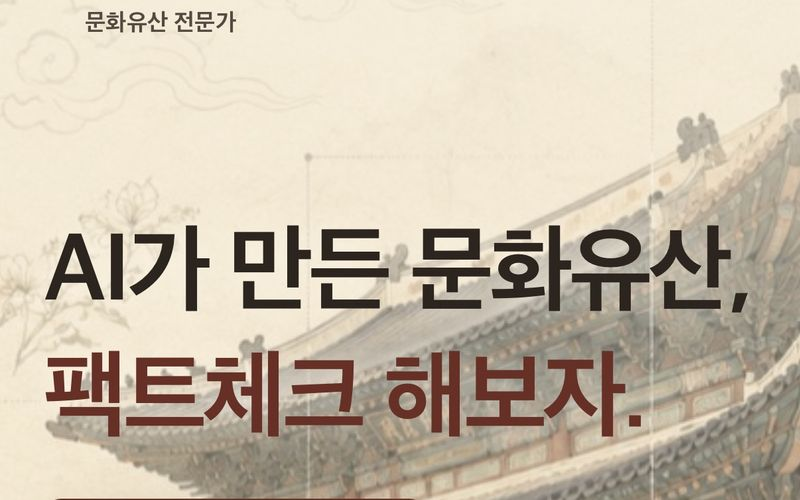
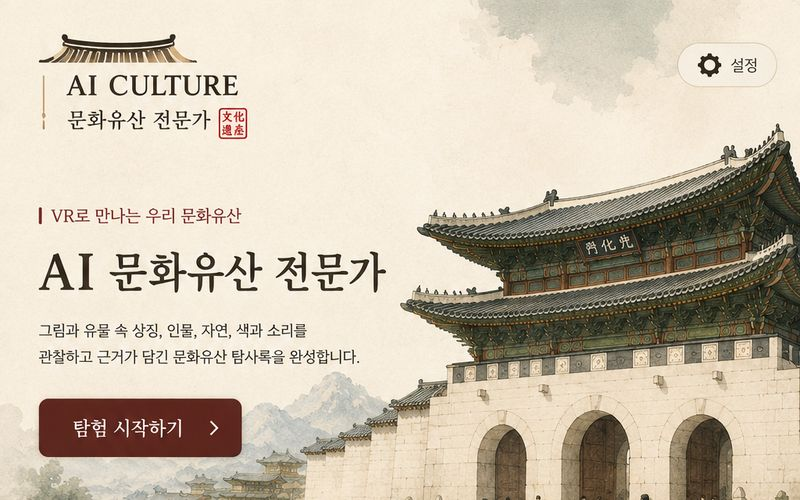
쇼케이스 띠에 앱 5개 추가, AI 문화유산은 전체 화면판으로 교체
- 추가: 역사 인물 추리 · 우리 빵집 초록 인증 · AI 과학수사 ·
  로고송 스튜디오 · AI DREAM (총 10개)
- AI 문화유산 전문가는 모바일 히어로 조각 대신 탐사 카드·주요 기능까지
  보이는 전체 화면 캡처로 교체
- 장수가 두 배가 되었으므로 한 바퀴 도는 시간을 42s → 78s 로 (속도 유지)

10장 380KB. 세로 캡처는 헤드라인이 살아 있는 구간으로 16:10 창을 잡아
잘랐고, 전부 800x500 으로 통일했다.

Claude-Session: https://claude.ai/code/session_01PQg54r9r2mxDZHdEmhupaa

diff --git a/public/index.html b/public/index.html
@@ -296,7 +296,7 @@
     margin-right:calc(-1 * ((100vw - min(100vw, 1280px)) / 2 + 32px));
     -webkit-mask-image:linear-gradient(90deg,transparent,#000 5%,#000 100%);
     mask-image:linear-gradient(90deg,transparent,#000 5%,#000 100%)}
-  .showcase-track{display:flex;gap:18px;width:max-content;animation:showcase-roll 42s linear infinite}
+  .showcase-track{display:flex;gap:18px;width:max-content;animation:showcase-roll 78s linear infinite}
   .showcase:hover .showcase-track{animation-play-state:paused}
   .scard{margin:0;flex:0 0 auto;width:clamp(240px,26vw,330px)}
   .scard img{display:block;width:100%;height:auto;border-radius:14px;border:1px solid var(--line);
@@ -346,12 +346,22 @@
         <figure class="scard"><img src="/brand/showcase/meru-workshop.jpg" alt="머루 마음공방 화면" loading="lazy" width="800" height="500"><figcaption>머루 마음공방</figcaption></figure>
         <figure class="scard"><img src="/brand/showcase/ai-ethics.jpg" alt="AI 윤리탐정단 화면" loading="lazy" width="800" height="500"><figcaption>AI 윤리탐정단</figcaption></figure>
         <figure class="scard"><img src="/brand/showcase/webapp-lab.jpg" alt="AI WEB APP LAB 화면" loading="lazy" width="800" height="500"><figcaption>AI WEB APP LAB</figcaption></figure>
-        <figure class="scard"><img src="/brand/showcase/ai-culture.jpg" alt="AI CULTURE 화면" loading="lazy" width="800" height="500"><figcaption>AI CULTURE</figcaption></figure>
+        <figure class="scard"><img src="/brand/showcase/ai-culture.jpg" alt="AI 문화유산 전문가 화면" loading="lazy" width="800" height="500"><figcaption>AI 문화유산 전문가</figcaption></figure>
+        <figure class="scard"><img src="/brand/showcase/history-detective.jpg" alt="역사 인물 추리 화면" loading="lazy" width="800" height="500"><figcaption>역사 인물 추리</figcaption></figure>
+        <figure class="scard"><img src="/brand/showcase/green-bakery.jpg" alt="우리 빵집 초록 인증 화면" loading="lazy" width="800" height="500"><figcaption>우리 빵집 초록 인증</figcaption></figure>
+        <figure class="scard"><img src="/brand/showcase/ai-forensics.jpg" alt="AI 과학수사 화면" loading="lazy" width="800" height="500"><figcaption>AI 과학수사</figcaption></figure>
+        <figure class="scard"><img src="/brand/showcase/logo-song.jpg" alt="로고송 스튜디오 화면" loading="lazy" width="800" height="500"><figcaption>로고송 스튜디오</figcaption></figure>
+        <figure class="scard"><img src="/brand/showcase/ai-dream.jpg" alt="AI DREAM 화면" loading="lazy" width="800" height="500"><figcaption>AI DREAM</figcaption></figure>
         <figure class="scard" aria-hidden="true"><img src="/brand/showcase/mind-class.jpg" alt="" loading="lazy" width="800" height="500"><figcaption>마음결 교실</figcaption></figure>
         <figure class="scard" aria-hidden="true"><img src="/brand/showcase/meru-workshop.jpg" alt="" loading="lazy" width="800" height="500"><figcaption>머루 마음공방</figcaption></figure>
         <figure class="scard" aria-hidden="true"><img src="/brand/showcase/ai-ethics.jpg" alt="" loading="lazy" width="800" height="500"><figcaption>AI 윤리탐정단</figcaption></figure>
         <figure class="scard" aria-hidden="true"><img src="/brand/showcase/webapp-lab.jpg" alt="" loading="lazy" width="800" height="500"><figcaption>AI WEB APP LAB</figcaption></figure>
-        <figure class="scard" aria-hidden="true"><img src="/brand/showcase/ai-culture.jpg" alt="" loading="lazy" width="800" height="500"><figcaption>AI CULTURE</figcaption></figure>
+        <figure class="scard" aria-hidden="true"><img src="/brand/showcase/ai-culture.jpg" alt="" loading="lazy" width="800" height="500"><figcaption>AI 문화유산 전문가</figcaption></figure>
+        <figure class="scard" aria-hidden="true"><img src="/brand/showcase/history-detective.jpg" alt="" loading="lazy" width="800" height="500"><figcaption>역사 인물 추리</figcaption></figure>
+        <figure class="scard" aria-hidden="true"><img src="/brand/showcase/green-bakery.jpg" alt="" loading="lazy" width="800" height="500"><figcaption>우리 빵집 초록 인증</figcaption></figure>
+        <figure class="scard" aria-hidden="true"><img src="/brand/showcase/ai-forensics.jpg" alt="" loading="lazy" width="800" height="500"><figcaption>AI 과학수사</figcaption></figure>
+        <figure class="scard" aria-hidden="true"><img src="/brand/showcase/logo-song.jpg" alt="" loading="lazy" width="800" height="500"><figcaption>로고송 스튜디오</figcaption></figure>
+        <figure class="scard" aria-hidden="true"><img src="/brand/showcase/ai-dream.jpg" alt="" loading="lazy" width="800" height="500"><figcaption>AI DREAM</figcaption></figure>
       </div>
     </div>
   </div>
